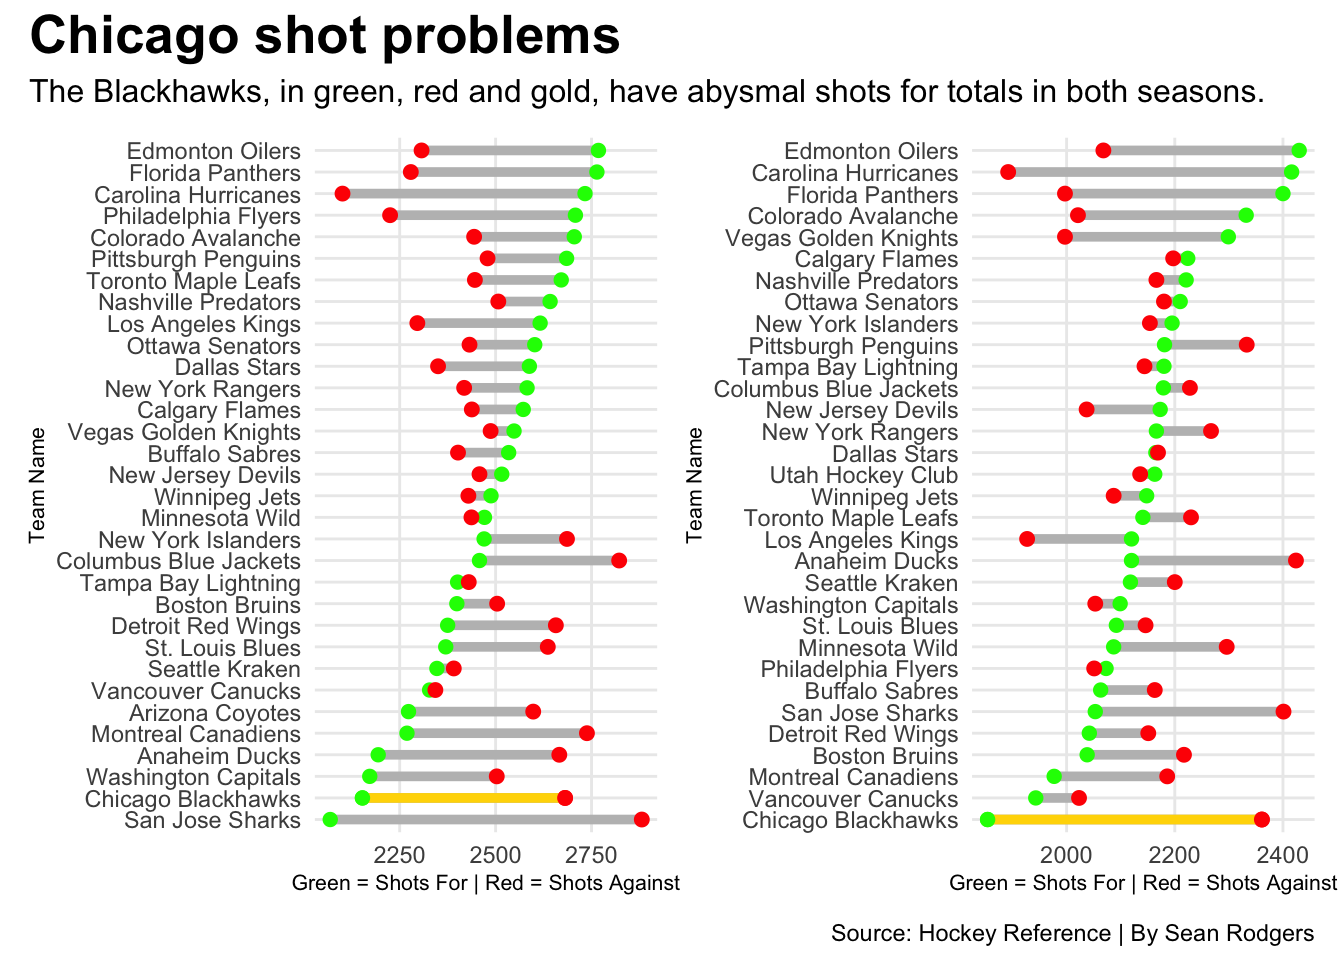
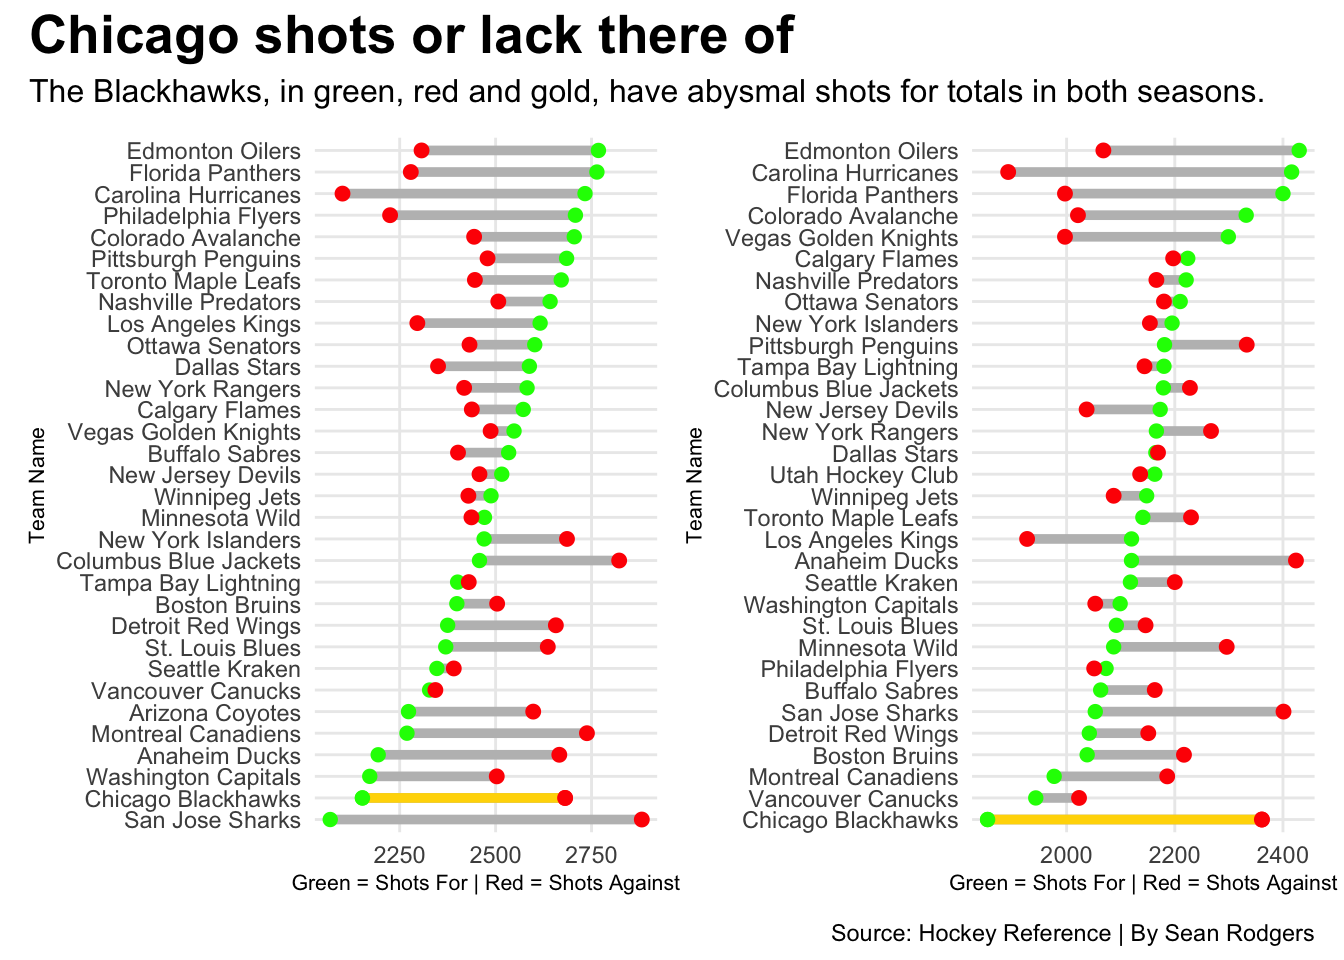
project2 first commit

Changed region(s): [[0.25, 0.0, 0.5938, 0.0625]]

diff --git a/posts/2025-stanley-cup-winner/index.html b/posts/2025-stanley-cup-winner/index.html
@@ -6,8 +6,10 @@
 
 <meta name="viewport" content="width=device-width, initial-scale=1.0, user-scalable=yes">
 
+<meta name="author" content="Sean Rodgers">
+<meta name="dcterms.date" content="2025-05-04">
 
-<title>Latest Posts – Sean Rodgers’ Sports Takes</title>
+<title>Which NHL team is destined to win the 2025 Stanley Cup? – Sean Rodgers’ Sports Takes</title>
 <style>
 code{white-space: pre-wrap;}
 span.smallcaps{font-variant: small-caps;}
@@ -23,24 +25,22 @@ ul.task-list li input[type="checkbox"] {
 </style>
 
 
-<script src="site_libs/quarto-nav/quarto-nav.js"></script>
-<script src="site_libs/quarto-nav/headroom.min.js"></script>
-<script src="site_libs/clipboard/clipboard.min.js"></script>
-<script src="site_libs/quarto-search/autocomplete.umd.js"></script>
-<script src="site_libs/quarto-search/fuse.min.js"></script>
-<script src="site_libs/quarto-search/quarto-search.js"></script>
-<meta name="quarto:offset" content="./">
-<script src="site_libs/quarto-listing/list.min.js"></script>
-<script src="site_libs/quarto-listing/quarto-listing.js"></script>
-<script src="site_libs/quarto-html/quarto.js"></script>
-<script src="site_libs/quarto-html/popper.min.js"></script>
-<script src="site_libs/quarto-html/tippy.umd.min.js"></script>
-<script src="site_libs/quarto-html/anchor.min.js"></script>
-<link href="site_libs/quarto-html/tippy.css" rel="stylesheet">
-<link href="site_libs/quarto-html/quarto-syntax-highlighting.css" rel="stylesheet" id="quarto-text-highlighting-styles">
-<script src="site_libs/bootstrap/bootstrap.min.js"></script>
-<link href="site_libs/bootstrap/bootstrap-icons.css" rel="stylesheet">
-<link href="site_libs/bootstrap/bootstrap.min.css" rel="stylesheet" id="quarto-bootstrap" data-mode="light">
+<script src="../../site_libs/quarto-nav/quarto-nav.js"></script>
+<script src="../../site_libs/quarto-nav/headroom.min.js"></script>
+<script src="../../site_libs/clipboard/clipboard.min.js"></script>
+<script src="../../site_libs/quarto-search/autocomplete.umd.js"></script>
+<script src="../../site_libs/quarto-search/fuse.min.js"></script>
+<script src="../../site_libs/quarto-search/quarto-search.js"></script>
+<meta name="quarto:offset" content="../../">
+<script src="../../site_libs/quarto-html/quarto.js"></script>
+<script src="../../site_libs/quarto-html/popper.min.js"></script>
+<script src="../../site_libs/quarto-html/tippy.umd.min.js"></script>
+<script src="../../site_libs/quarto-html/anchor.min.js"></script>
+<link href="../../site_libs/quarto-html/tippy.css" rel="stylesheet">
+<link href="../../site_libs/quarto-html/quarto-syntax-highlighting.css" rel="stylesheet" id="quarto-text-highlighting-styles">
+<script src="../../site_libs/bootstrap/bootstrap.min.js"></script>
+<link href="../../site_libs/bootstrap/bootstrap-icons.css" rel="stylesheet">
+<link href="../../site_libs/bootstrap/bootstrap.min.css" rel="stylesheet" id="quarto-bootstrap" data-mode="light">
 <script id="quarto-search-options" type="application/json">{
   "location": "navbar",
   "copy-button": false,
@@ -68,77 +68,19 @@ ul.task-list li input[type="checkbox"] {
     "search-label": "Search"
   }
 }</script>
-<script>
 
-  window.document.addEventListener("DOMContentLoaded", function (_event) {
-    const listingTargetEl = window.document.querySelector('#listing-listing .list');
-    if (!listingTargetEl) {
-      // No listing discovered, do not attach.
-      return; 
-    }
 
-    const options = {
-      valueNames: ['listing-date','listing-title','listing-author','listing-image','listing-description','listing-categories',{ data: ['index'] },{ data: ['categories'] },{ data: ['listing-date-sort'] },{ data: ['listing-file-modified-sort'] }],
-      
-      searchColumns: ["listing-date","listing-title","listing-author","listing-image","listing-description","listing-categories"],
-    };
-
-    window['quarto-listings'] = window['quarto-listings'] || {};
-    window['quarto-listings']['listing-listing'] = new List('listing-listing', options);
-
-    if (window['quarto-listing-loaded']) {
-      window['quarto-listing-loaded']();
-    }
-  });
-
-  window.addEventListener('hashchange',() => {
-    if (window['quarto-listing-loaded']) {
-      window['quarto-listing-loaded']();
-    }
-  })
-  </script>
-
-  <script src="https://cdnjs.cloudflare.com/polyfill/v3/polyfill.min.js?features=es6"></script>
-  <script src="https://cdn.jsdelivr.net/npm/mathjax@3/es5/tex-chtml-full.js" type="text/javascript"></script>
-
-<script type="text/javascript">
-const typesetMath = (el) => {
-  if (window.MathJax) {
-    // MathJax Typeset
-    window.MathJax.typeset([el]);
-  } else if (window.katex) {
-    // KaTeX Render
-    var mathElements = el.getElementsByClassName("math");
-    var macros = [];
-    for (var i = 0; i < mathElements.length; i++) {
-      var texText = mathElements[i].firstChild;
-      if (mathElements[i].tagName == "SPAN") {
-        window.katex.render(texText.data, mathElements[i], {
-          displayMode: mathElements[i].classList.contains('display'),
-          throwOnError: false,
-          macros: macros,
-          fleqn: false
-        });
-      }
-    }
-  }
-}
-window.Quarto = {
-  typesetMath
-};
-</script>
-
-<link rel="stylesheet" href="styles.css">
+<link rel="stylesheet" href="../../styles.css">
 </head>
 
-<body class="nav-fixed">
+<body class="nav-fixed fullcontent">
 
 <div id="quarto-search-results"></div>
   <header id="quarto-header" class="headroom fixed-top quarto-banner">
     <nav class="navbar navbar-expand-lg " data-bs-theme="dark">
       <div class="navbar-container container-fluid">
       <div class="navbar-brand-container mx-auto">
-    <a class="navbar-brand" href="./index.html">
+    <a class="navbar-brand" href="../../index.html">
     <span class="navbar-title">Sean Rodgers’ Sports Takes</span>
     </a>
   </div>
@@ -149,7 +91,7 @@ window.Quarto = {
           <div class="collapse navbar-collapse" id="navbarCollapse">
             <ul class="navbar-nav navbar-nav-scroll ms-auto">
   <li class="nav-item">
-    <a class="nav-link" href="./about.html"> 
+    <a class="nav-link" href="../../about.html"> 
 <span class="menu-text">About</span></a>
   </li>  
   <li class="nav-item compact">
@@ -167,122 +109,55 @@ window.Quarto = {
 <!-- content -->
 <header id="title-block-header" class="quarto-title-block default page-columns page-full">
   <div class="quarto-title-banner page-columns page-full">
-    <div class="quarto-title column-page-left">
-      <h1 class="title">Latest Posts</h1>
-                      </div>
+    <div class="quarto-title column-body">
+      <h1 class="title">Which NHL team is destined to win the 2025 Stanley Cup?</h1>
+                                <div class="quarto-categories">
+                <div class="quarto-category">playoffs</div>
+                <div class="quarto-category">nhl</div>
+                <div class="quarto-category">hockey</div>
+              </div>
+                  </div>
   </div>
     
   
-  <div class="quarto-title-meta column-page-left">
+  <div class="quarto-title-meta">
 
+      <div>
+      <div class="quarto-title-meta-heading">Author</div>
+      <div class="quarto-title-meta-contents">
+               <p>Sean Rodgers </p>
+            </div>
+    </div>
       
+      <div>
+      <div class="quarto-title-meta-heading">Published</div>
+      <div class="quarto-title-meta-contents">
+        <p class="date">May 4, 2025</p>
+      </div>
+    </div>
     
       
     </div>
     
   
-  </header><div id="quarto-content" class="quarto-container page-columns page-rows-contents page-layout-full page-navbar">
+  </header><div id="quarto-content" class="quarto-container page-columns page-rows-contents page-layout-article page-navbar">
 <!-- sidebar -->
 <!-- margin-sidebar -->
-    <div id="quarto-margin-sidebar" class="sidebar margin-sidebar">
-        
-    <h5 class="quarto-listing-category-title">Categories</h5><div class="quarto-listing-category category-default"><div class="category" data-category="">All <span class="quarto-category-count">(2)</span></div><div class="category" data-category="blackhawks">blackhawks <span class="quarto-category-count">(1)</span></div><div class="category" data-category="hockey">hockey <span class="quarto-category-count">(2)</span></div><div class="category" data-category="nhl">nhl <span class="quarto-category-count">(2)</span></div><div class="category" data-category="playoffs">playoffs <span class="quarto-category-count">(1)</span></div></div></div>
+    
 <!-- main -->
-<main class="content quarto-banner-title-block column-page-left" id="quarto-document-content">
+<main class="content quarto-banner-title-block" id="quarto-document-content">
 
 
 
 
 
+<p>Like the title says, which team will win the Stanley Cup this season? Who knows. For starters, here are the past Stanley Cup winners:</p>
+<p>2015 = Chicago Blackhawks 2016 = Pittsburgh Penguins 2017 = Pittsburgh Penguins 2018 = Washington Capitals 2019 = St.&nbsp;Louis Blues 2020 = Tampa Bay Lightning 2021 = Tampa Bay Lightning 2022 = Colorado Avalanche 2023 = Vegas Golden Knights 2024 = Florida Panthers</p>
+<p>Repeats in this age of the NHL are almost unheard of, or well they were thought to be unheard of until it happened twice in the past decade. Nonetheless, there is a wide variety of teams on that list and even more that are in the playoffs this season.</p>
 
 
 
-
-<div class="quarto-listing quarto-listing-container-default" id="listing-listing">
-<div class="list quarto-listing-default">
-<div class="quarto-post image-right" data-index="0" data-categories="playoffs,nhl,hockey" data-listing-date-sort="1746334800000" data-listing-file-modified-sort="1746040474706" data-listing-date-modified-sort="NaN" data-listing-reading-time-sort="1" data-listing-word-count-sort="115">
-<div class="thumbnail">
-<p><a href="./posts/2025-stanley-cup-winner/index.html" class="no-external"></a></p><a href="./posts/2025-stanley-cup-winner/index.html" class="no-external">
-<p><img loading="lazy" src="./posts/2025-stanley-cup-winner/image.png" class="thumbnail-image"></p>
-</a><p><a href="./posts/2025-stanley-cup-winner/index.html" class="no-external"></a></p>
-</div>
-<div class="body">
-<h3 class="no-anchor listing-title">
-<a href="./posts/2025-stanley-cup-winner/index.html" class="no-external">Which NHL team is destined to win the 2025 Stanley Cup?</a>
-</h3>
-<div class="listing-subtitle">
-<a href="./posts/2025-stanley-cup-winner/index.html" class="no-external"></a>
-</div>
-<div class="listing-categories">
-<div class="listing-category" onclick="window.quartoListingCategory('playoffs'); return false;">
-playoffs
-</div>
-<div class="listing-category" onclick="window.quartoListingCategory('nhl'); return false;">
-nhl
-</div>
-<div class="listing-category" onclick="window.quartoListingCategory('hockey'); return false;">
-hockey
-</div>
-</div>
-<div class="listing-description">
-<a href="./posts/2025-stanley-cup-winner/index.html" class="no-external">Like the title says, which team will win the Stanley Cup this season? Who knows. For starters, here are the past Stanley Cup winners:</a>
-</div>
-</div>
-<div class="metadata">
-<a href="./posts/2025-stanley-cup-winner/index.html" class="no-external">
-<div class="listing-date">
-May 4, 2025
-</div>
-<div class="listing-author">
-Sean Rodgers
-</div>
-</a>
-</div>
-</div>
-<div class="quarto-post image-right" data-index="1" data-categories="blackhawks,nhl,hockey" data-listing-date-sort="1744606800000" data-listing-file-modified-sort="1745262566880" data-listing-date-modified-sort="NaN" data-listing-reading-time-sort="11" data-listing-word-count-sort="2017">
-<div class="thumbnail">
-<p><a href="./posts/chicago-blackhawks-are-a-bad-nhl-team/index.html" class="no-external"></a></p><a href="./posts/chicago-blackhawks-are-a-bad-nhl-team/index.html" class="no-external">
-<p><img loading="lazy" src="./posts/chicago-blackhawks-are-a-bad-nhl-team/image.png" class="thumbnail-image"></p>
-</a><p><a href="./posts/chicago-blackhawks-are-a-bad-nhl-team/index.html" class="no-external"></a></p>
-</div>
-<div class="body">
-<h3 class="no-anchor listing-title">
-<a href="./posts/chicago-blackhawks-are-a-bad-nhl-team/index.html" class="no-external">An in-depth look at the 2023-24 and 2024-25 Chicago Blackhawks. How bad are they really?</a>
-</h3>
-<div class="listing-subtitle">
-<a href="./posts/chicago-blackhawks-are-a-bad-nhl-team/index.html" class="no-external"></a>
-</div>
-<div class="listing-categories">
-<div class="listing-category" onclick="window.quartoListingCategory('blackhawks'); return false;">
-blackhawks
-</div>
-<div class="listing-category" onclick="window.quartoListingCategory('nhl'); return false;">
-nhl
-</div>
-<div class="listing-category" onclick="window.quartoListingCategory('hockey'); return false;">
-hockey
-</div>
-</div>
-<div class="listing-description">
-<a href="./posts/chicago-blackhawks-are-a-bad-nhl-team/index.html" class="no-external">Any hockey fan knows the story of the Chicago Blackhawks following the 2015 Stanley Cup win. It is one thing to say the team is bad, but is the team that bad or do they have…</a>
-</div>
-</div>
-<div class="metadata">
-<a href="./posts/chicago-blackhawks-are-a-bad-nhl-team/index.html" class="no-external">
-<div class="listing-date">
-Apr 14, 2025
-</div>
-<div class="listing-author">
-Sean Rodgers
-</div>
-</a>
-</div>
-</div>
-</div>
-<div class="listing-no-matching d-none">
-No matching items
-</div>
-</div></main> <!-- /main -->
+</main> <!-- /main -->
 <script id="quarto-html-after-body" type="application/javascript">
 window.document.addEventListener("DOMContentLoaded", function (event) {
   const toggleBodyColorMode = (bsSheetEl) => {

diff --git a/posts/chicago-blackhawks-are-a-bad-nhl-team/index.html b/posts/chicago-blackhawks-are-a-bad-nhl-team/index.html
@@ -420,7 +420,7 @@ pre > code.sourceCode > span > a:first-child::before { text-decoration: underlin
 <span id="cb3-68"><a href="#cb3-68" aria-hidden="true" tabindex="-1"></a></span>
 <span id="cb3-69"><a href="#cb3-69" aria-hidden="true" tabindex="-1"></a>shot24 <span class="sc">+</span> shot25 <span class="sc">+</span></span>
 <span id="cb3-70"><a href="#cb3-70" aria-hidden="true" tabindex="-1"></a>  <span class="fu">plot_annotation</span>(</span>
-<span id="cb3-71"><a href="#cb3-71" aria-hidden="true" tabindex="-1"></a>    <span class="at">title =</span> <span class="st">"Chicago shot problems"</span>,</span>
+<span id="cb3-71"><a href="#cb3-71" aria-hidden="true" tabindex="-1"></a>    <span class="at">title =</span> <span class="st">"Chicago shots or lack there of"</span>,</span>
 <span id="cb3-72"><a href="#cb3-72" aria-hidden="true" tabindex="-1"></a>    <span class="at">subtitle =</span> <span class="st">"The Blackhawks, in green, red and gold, have abysmal shots for totals in both seasons."</span>,</span>
 <span id="cb3-73"><a href="#cb3-73" aria-hidden="true" tabindex="-1"></a>    <span class="at">caption =</span> <span class="st">"Source: Hockey Reference | By Sean Rodgers"</span></span>
 <span id="cb3-74"><a href="#cb3-74" aria-hidden="true" tabindex="-1"></a>  ) <span class="sc">&amp;</span></span>
